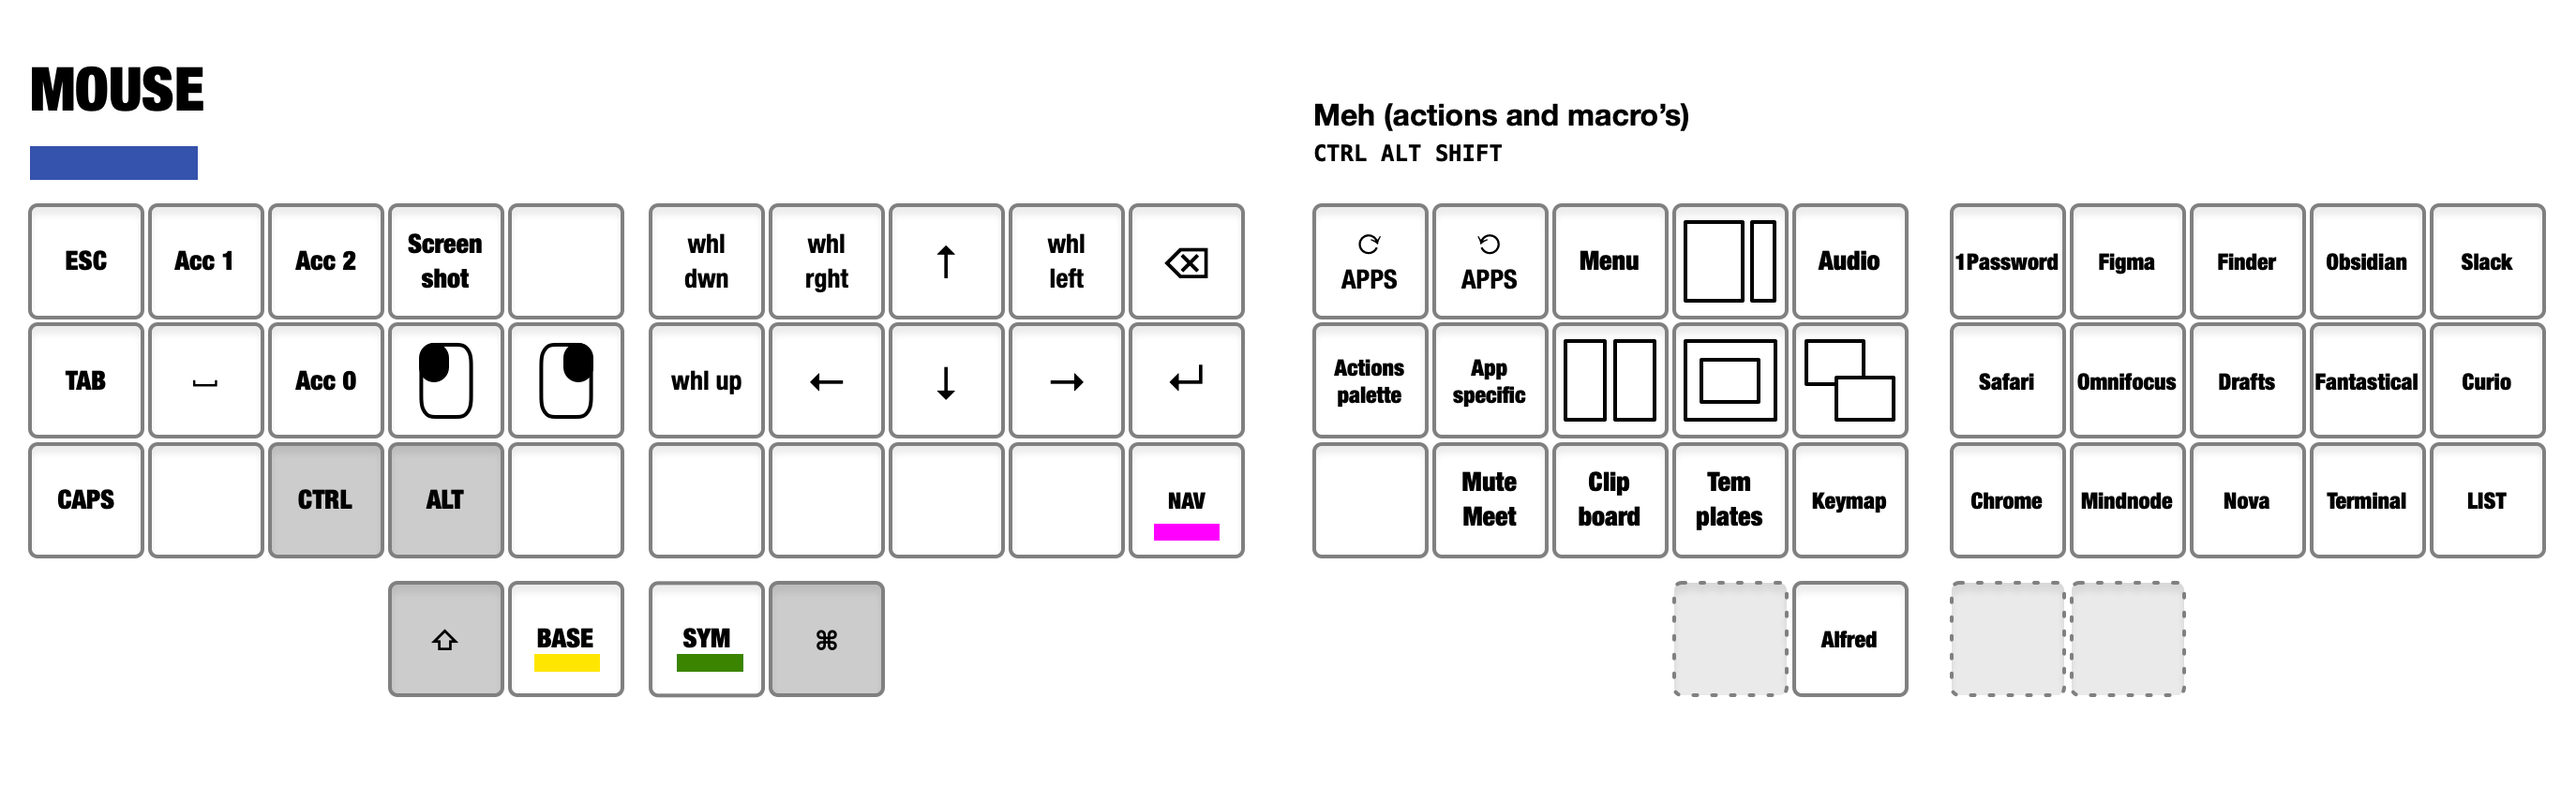
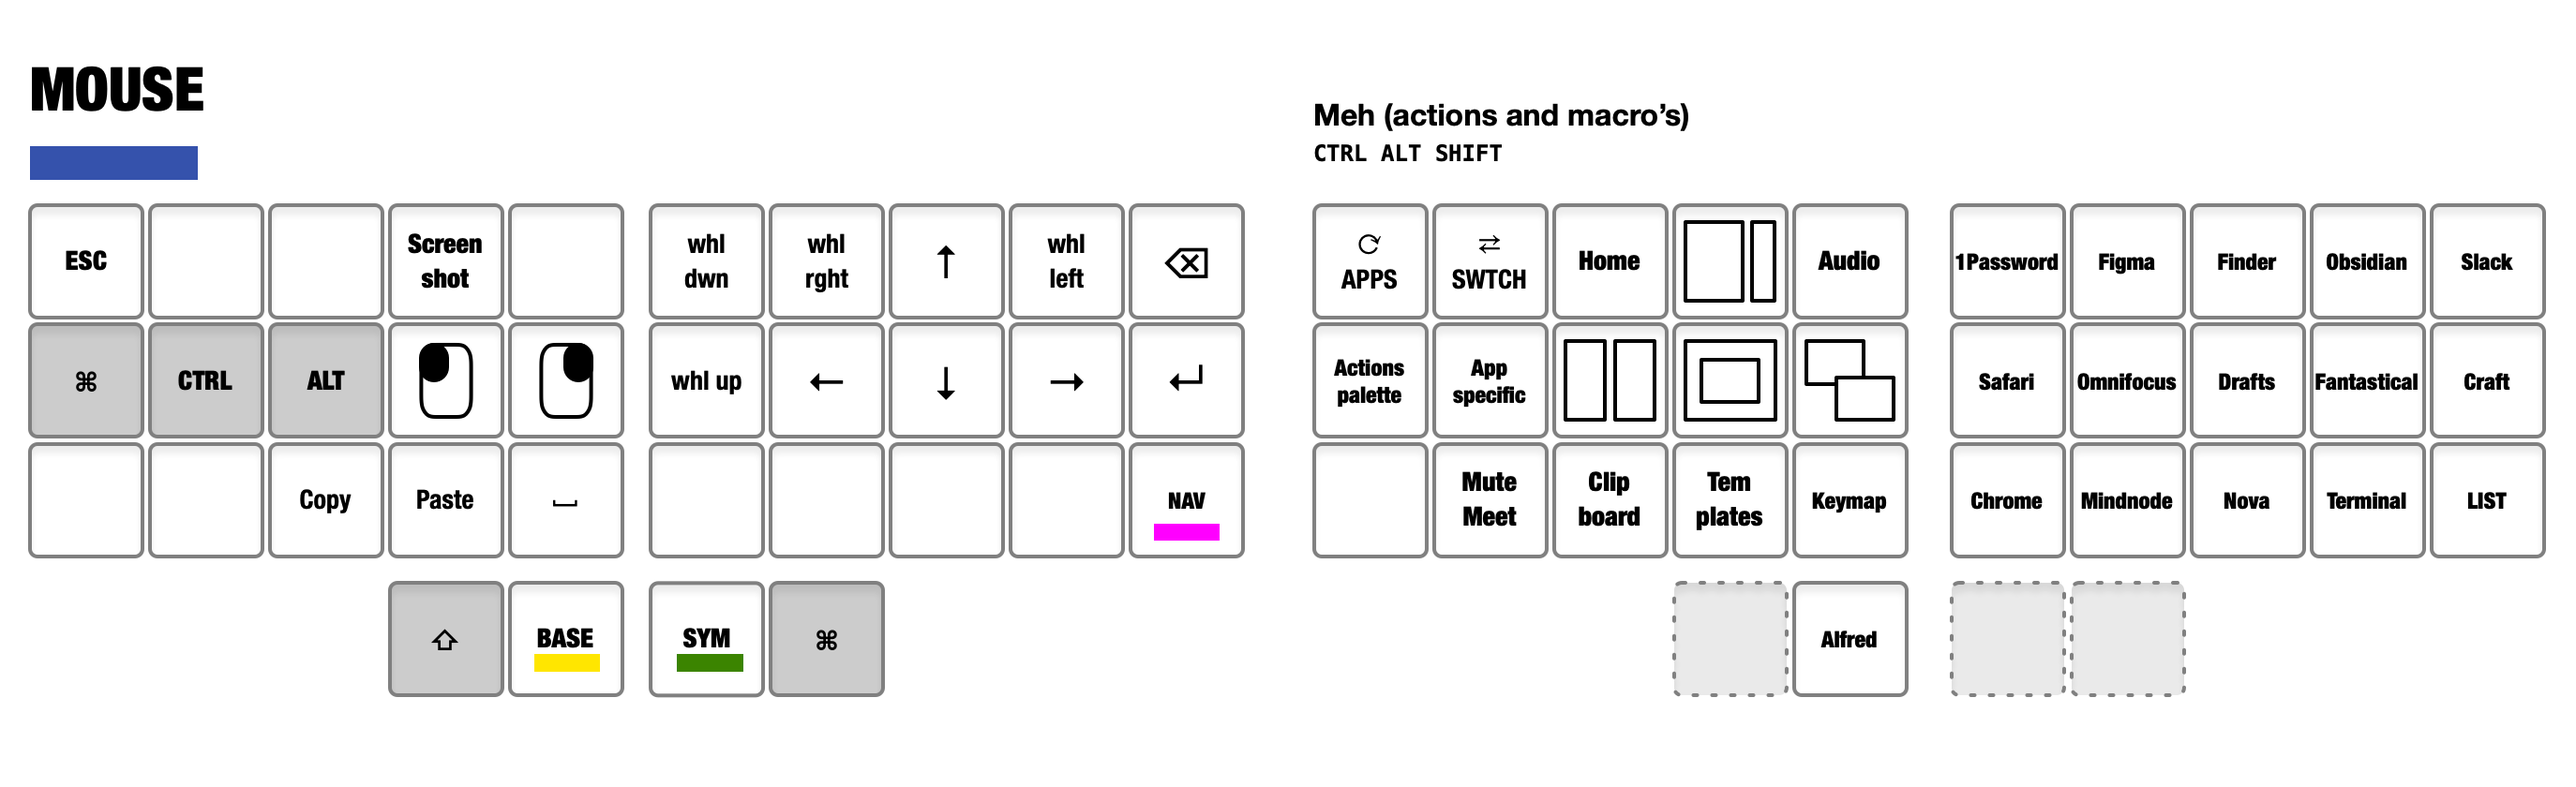
Updates from last weeks

diff --git a/moonlander/keymap.c b/moonlander/keymap.c
@@ -24,6 +24,10 @@
 #include "ledlights.c"
 #include "threefourbase.c"
 
+#define THUMB1 KC_MS_BTN1
+#define THUMB2 KC_MS_BTN2
+#define THUMB3 KC_NO
+
 const uint16_t PROGMEM keymaps[][MATRIX_ROWS][MATRIX_COLS] = {
 [0] = LAYOUT_moonlander(
         KR_0_1_0, KR_0_1_1,  KR_0_1_2,  KR_0_1_3,  KR_0_1_4,  KR_0_1_5,  _______,    _______,  KR_0_1_6,  KR_0_1_7,  KR_0_1_8,  KR_0_1_9,  KR_0_1_10,  KR_0_1_11,
@@ -31,7 +35,7 @@ const uint16_t PROGMEM keymaps[][MATRIX_ROWS][MATRIX_COLS] = {
         KR_0_3_0, KR_0_3_1,  KR_0_3_2,  KR_0_3_3,  KR_0_3_4,  KR_0_3_5,  _______,    _______,  KR_0_3_6,  KR_0_3_7,  KR_0_3_8,  KR_0_3_9,  KR_0_3_10,  KR_0_3_11,
         _______,   _______,   _______,   _______,  KR_0_4_2,  KR_0_4_3,                        KR_0_4_4,  KR_0_4_5,  _______,   _______,    _______,    _______,
         _______, _______,   _______,   _______,   _______,   _______,                      _______,   _______,   _______,   _______,   _______,    _______,
-                                                  _______, _______, MEH(KC_X),    _______, _______, _______
+                                                  THUMB1, THUMB2, THUMB3,     THUMB3, THUMB2, THUMB1
     ),
 
     [1] = LAYOUT_moonlander(
@@ -40,7 +44,7 @@ const uint16_t PROGMEM keymaps[][MATRIX_ROWS][MATRIX_COLS] = {
         _______, KR_1_3_1,  KR_1_3_2,  KR_1_3_3,  KR_1_3_4,  KR_1_3_5,  _______,    _______,  KR_1_3_6,  KR_1_3_7,  KR_1_3_8,  KR_1_3_9,  KR_1_3_10,  _______,
         _______, _______,   _______,   _______,  KR_1_4_2,  KR_1_4_3,                         KR_1_4_4,  KR_1_4_5,  _______,   _______,    _______,    _______,
         _______, _______,   _______,   _______,   _______,   _______,                         _______,   _______,   _______,   _______,   _______,    _______,
-                                                  _______, _______, _______,    _______, _______, _______
+                                                  KC_TRNS, KC_TRNS, KC_TRNS,    KC_TRNS, KC_TRNS, KC_TRNS
     ),
 
     [2] = LAYOUT_moonlander(
@@ -49,7 +53,7 @@ const uint16_t PROGMEM keymaps[][MATRIX_ROWS][MATRIX_COLS] = {
         _______, KR_2_3_1,  KR_2_3_2,  KR_2_3_3,  KR_2_3_4,  KR_2_3_5,  _______,    _______,  KR_2_3_6,  KR_2_3_7,  KR_2_3_8,  KR_2_3_9,  KR_2_3_10,  _______,
         _______, _______,   _______,   _______,  KR_2_4_2,  KR_2_4_3,                         KR_2_4_4,  KR_2_4_5,  _______,   _______,    _______,    _______,
         _______, _______,   _______,   _______,   _______,   _______,                         _______,   _______,   _______,   _______,   _______,    _______,
-                                                  _______, _______, _______,    _______, _______, _______
+                                                  KC_TRNS, KC_TRNS, KC_TRNS,    KC_TRNS, KC_TRNS, KC_TRNS
     ),
     
     [3] = LAYOUT_moonlander(
@@ -58,7 +62,7 @@ const uint16_t PROGMEM keymaps[][MATRIX_ROWS][MATRIX_COLS] = {
         _______, KR_3_3_1,  KR_3_3_2,  KR_3_3_3,  KR_3_3_4,  KR_3_3_5,  _______,    _______,  KR_3_3_6,  KR_3_3_7,  KR_3_3_8,  KR_3_3_9,  KR_3_3_10,  KR_3_3_11,
         _______, _______,   _______,   _______,  KR_3_4_2,  KR_3_4_3,                         KR_3_4_4,  KR_3_4_5,  _______,   _______,    _______,    _______,
         _______, _______,   _______,   _______,   _______,   _______,                         _______,   _______,   _______,   _______,   _______,    _______,
-                                                  _______, _______, _______,    _______, _______, _______
+                                                  KC_TRNS, KC_TRNS, KC_TRNS,    KC_TRNS, KC_TRNS, KC_TRNS
     ),
         
     [4] = LAYOUT_moonlander(
@@ -67,6 +71,6 @@ const uint16_t PROGMEM keymaps[][MATRIX_ROWS][MATRIX_COLS] = {
         _______, KR_4_3_1,  KR_4_3_2,  KR_4_3_3,  KR_4_3_4,  KR_4_3_5,  _______,    _______,  KR_4_3_6,  KR_4_3_7,  KR_4_3_8,  KR_4_3_9,  KR_4_3_10,  KR_4_3_11,
         _______, _______,   _______,   _______,  KR_4_4_2,  KR_4_4_3,                         KR_4_4_4,  KR_4_4_5,  _______,   _______,    _______,    _______,
         _______, _______,   _______,   _______,   _______,   _______,                         _______,   _______,   _______,   _______,   _______,    _______,
-                                                  _______, _______, _______,    _______, _______, _______
+                                                  KC_TRNS, KC_TRNS, KC_TRNS,    KC_TRNS, KC_TRNS, KC_TRNS
     )
 };

diff --git a/moonlander/threefourbase.c b/moonlander/threefourbase.c
@@ -8,7 +8,10 @@ enum combos {
 	QW_CBO,
 	ZX_CBO,
 	XC_CBO,
-	THUMBS_CBO,
+	DFG_CBO,
+	ASD_CBO,
+	MOUSE_CBO,
+	//THUMBS_CBO,
 	COMBO_LENGTH
 };
 
@@ -17,13 +20,19 @@ uint16_t COMBO_LEN = COMBO_LENGTH;
 const uint16_t PROGMEM qw_combo[]   = {KC_Q, KC_W, COMBO_END};
 const uint16_t PROGMEM zx_combo[]   = {KC_Z, KC_X, COMBO_END};
 const uint16_t PROGMEM xc_combo[]   = {KC_X, KC_C, COMBO_END};
-const uint16_t PROGMEM thumbs_combo[]   = {KC_SPACE, TT(1), COMBO_END};
+const uint16_t PROGMEM dfg_combo[]   = {LALT_T(KC_D), MEH_T(KC_F), KC_G, COMBO_END};
+const uint16_t PROGMEM asd_combo[]   = {KC_A, LCTL_T(KC_S), LALT_T(KC_D), COMBO_END};
+const uint16_t PROGMEM mouse_combo[]   = {KC_MS_BTN1, KC_MS_BTN2, COMBO_END};
+//const uint16_t PROGMEM thumbs_combo[]   = {KC_SPACE, TT(1), COMBO_END};
 
 combo_t key_combos[] = {
 	[QW_CBO] = COMBO(qw_combo, KC_ESC),
 	[ZX_CBO] = COMBO(zx_combo, KC_BSPC),
 	[XC_CBO] = COMBO(xc_combo, OSM(MOD_LGUI)),
-	[THUMBS_CBO] = COMBO(thumbs_combo, TO(3))
+	[DFG_CBO] = COMBO(dfg_combo, KC_ENTER),
+	[ASD_CBO] = COMBO(asd_combo, KC_TAB),
+	[MOUSE_CBO] = COMBO(mouse_combo, LSG(KC_4)), // Screenshot shortcut
+	//[THUMBS_CBO] = COMBO(thumbs_combo, TO(3))
 };
 
 // # Layer 0
@@ -54,7 +63,7 @@ combo_t key_combos[] = {
 #define KR_0_2_7 MEH_T(KC_J)
 #define KR_0_2_8 RALT_T(KC_K)
 #define KR_0_2_9 RCTL_T(KC_L)
-#define KR_0_2_10 KC_P
+#define KR_0_2_10 LSFT_T(KC_P)
 
 // Bottom row
 
@@ -225,15 +234,15 @@ combo_t key_combos[] = {
 
 #define KR_3_3_1 KC_CAPS
 #define KR_3_3_2 KC_NO
-#define KR_3_3_3 KC_NO
-#define KR_3_3_4 KC_NO
+#define KR_3_3_3 TO(4)
+#define KR_3_3_4 KC_NO // Hold down for temp nav layer. Leave on KC_NO
 #define KR_3_3_5 KC_SPACE
 
 #define KR_3_3_6 KC_NO
 #define KR_3_3_7 LSFT(KC_LEFT)
 #define KR_3_3_8 KC_TAB
 #define KR_3_3_9 LSFT(KC_RIGHT)
-#define KR_3_3_10 TO(4)
+#define KR_3_3_10 KC_NO
 
 // Thumb cluser
 
@@ -252,8 +261,8 @@ combo_t key_combos[] = {
 // Top row
 
 #define KR_4_1_1 KC_ESC
-#define KR_4_1_2 KC_MS_ACCEL1
-#define KR_4_1_3 KC_MS_ACCEL2
+#define KR_4_1_2 KC_NO
+#define KR_4_1_3 KC_NO
 #define KR_4_1_4 LSG(KC_4) // Screenshot button `cmd shift 4`
 #define KR_4_1_5 KC_NO
 //
@@ -264,9 +273,9 @@ combo_t key_combos[] = {
 #define KR_4_1_10 KC_BSPC
 
 
-#define KR_4_2_1 KC_TAB
-#define KR_4_2_2 KC_SPACE
-#define KR_4_2_3 KC_MS_ACCEL0
+#define KR_4_2_1 KC_LGUI
+#define KR_4_2_2 KC_LCTRL
+#define KR_4_2_3 KC_LALT
 #define KR_4_2_4 KC_MS_BTN1
 #define KR_4_2_5 KC_MS_BTN2
 //
@@ -277,15 +286,15 @@ combo_t key_combos[] = {
 #define KR_4_2_10 KC_ENTER
 
 
-#define KR_4_3_1 KC_CAPS
+#define KR_4_3_1 KC_NO
 #define KR_4_3_2 KC_NO
-#define KR_4_3_3 KC_LCTRL
-#define KR_4_3_4 KC_LALT
-#define KR_4_3_5 KC_NO
+#define KR_4_3_3 LGUI(KC_C)
+#define KR_4_3_4 LGUI(KC_V)
+#define KR_4_3_5 KC_SPACE
 
 #define KR_4_3_6 KC_NO
 #define KR_4_3_7 KC_NO
-#define KR_4_3_8 KC_NO
+#define KR_4_3_8 KC_TAB
 #define KR_4_3_9 KC_NO
 #define KR_4_3_10 TO(3)
 
@@ -298,8 +307,6 @@ combo_t key_combos[] = {
 #define KR_4_4_4 TO(1)
 #define KR_4_4_5 KC_TRNS
 #define KR_4_4_6 KC_TRNS
-
-
 
 
 

diff --git a/technik/threefourbase.c b/technik/threefourbase.c
@@ -8,7 +8,9 @@ enum combos {
 	QW_CBO,
 	ZX_CBO,
 	XC_CBO,
-	THUMBS_CBO,
+	DFG_CBO,
+	//THUMBS_CBO,
+	MOUSE_CBO,
 	COMBO_LENGTH
 };
 
@@ -17,13 +19,17 @@ uint16_t COMBO_LEN = COMBO_LENGTH;
 const uint16_t PROGMEM qw_combo[]   = {KC_Q, KC_W, COMBO_END};
 const uint16_t PROGMEM zx_combo[]   = {KC_Z, KC_X, COMBO_END};
 const uint16_t PROGMEM xc_combo[]   = {KC_X, KC_C, COMBO_END};
-const uint16_t PROGMEM thumbs_combo[]   = {KC_SPACE, TT(1), COMBO_END};
+const uint16_t PROGMEM dfg_combo[]   = {LALT_T(KC_D), MEH_T(KC_F), KC_G, COMBO_END};
+//const uint16_t PROGMEM thumbs_combo[]   = {KC_SPACE, TT(1), COMBO_END};
+const uint16_t PROGMEM mouse_combo[]   = {KC_MS_BTN1, KC_MS_BTN2, COMBO_END};
 
 combo_t key_combos[] = {
 	[QW_CBO] = COMBO(qw_combo, KC_ESC),
 	[ZX_CBO] = COMBO(zx_combo, KC_BSPC),
 	[XC_CBO] = COMBO(xc_combo, OSM(MOD_LGUI)),
-	[THUMBS_CBO] = COMBO(thumbs_combo, TO(3))
+	[DFG_CBO] = COMBO(dfg_combo, KC_ENTER),
+	[MOUSE_CBO] = COMBO(mouse_combo, LSG(KC_4)), // Screenshot shortcut
+	//[THUMBS_CBO] = COMBO(thumbs_combo, TO(3))
 };
 
 // # Layer 0
@@ -54,7 +60,7 @@ combo_t key_combos[] = {
 #define KR_0_2_7 MEH_T(KC_J)
 #define KR_0_2_8 RALT_T(KC_K)
 #define KR_0_2_9 RCTL_T(KC_L)
-#define KR_0_2_10 KC_P
+#define KR_0_2_10 LSFT_T(KC_P)
 
 // Bottom row
 
@@ -225,15 +231,15 @@ combo_t key_combos[] = {
 
 #define KR_3_3_1 KC_CAPS
 #define KR_3_3_2 KC_NO
-#define KR_3_3_3 KC_NO
-#define KR_3_3_4 KC_NO
+#define KR_3_3_3 TO(4)
+#define KR_3_3_4 KC_NO // Hold down for temp nav layer. Leave on KC_NO
 #define KR_3_3_5 KC_SPACE
 
 #define KR_3_3_6 KC_NO
 #define KR_3_3_7 LSFT(KC_LEFT)
 #define KR_3_3_8 KC_TAB
 #define KR_3_3_9 LSFT(KC_RIGHT)
-#define KR_3_3_10 TO(4)
+#define KR_3_3_10 KC_NO
 
 // Thumb cluser
 
@@ -252,8 +258,8 @@ combo_t key_combos[] = {
 // Top row
 
 #define KR_4_1_1 KC_ESC
-#define KR_4_1_2 KC_MS_ACCEL1
-#define KR_4_1_3 KC_MS_ACCEL2
+#define KR_4_1_2 KC_NO
+#define KR_4_1_3 KC_NO
 #define KR_4_1_4 LSG(KC_4) // Screenshot button `cmd shift 4`
 #define KR_4_1_5 KC_NO
 //
@@ -264,9 +270,9 @@ combo_t key_combos[] = {
 #define KR_4_1_10 KC_BSPC
 
 
-#define KR_4_2_1 KC_TAB
-#define KR_4_2_2 KC_SPACE
-#define KR_4_2_3 KC_MS_ACCEL0
+#define KR_4_2_1 KC_LGUI
+#define KR_4_2_2 KC_LCTRL
+#define KR_4_2_3 KC_LALT
 #define KR_4_2_4 KC_MS_BTN1
 #define KR_4_2_5 KC_MS_BTN2
 //
@@ -277,11 +283,11 @@ combo_t key_combos[] = {
 #define KR_4_2_10 KC_ENTER
 
 
-#define KR_4_3_1 KC_CAPS
+#define KR_4_3_1 KC_NO
 #define KR_4_3_2 KC_NO
-#define KR_4_3_3 KC_LCTRL
-#define KR_4_3_4 KC_LALT
-#define KR_4_3_5 KC_NO
+#define KR_4_3_3 LGUI(KC_C)
+#define KR_4_3_4 LGUI(KC_V)
+#define KR_4_3_5 KC_SPACE
 
 #define KR_4_3_6 KC_NO
 #define KR_4_3_7 KC_NO
@@ -298,8 +304,6 @@ combo_t key_combos[] = {
 #define KR_4_4_4 TO(1)
 #define KR_4_4_5 KC_TRNS
 #define KR_4_4_6 KC_TRNS
-
-
 
 
 

diff --git a/moonlander/config.h b/moonlander/config.h
@@ -35,6 +35,7 @@
 #define RGBLIGHT_LAYERS
 
 #define RGB_MATRIX_STARTUP_SPD 60
+#define RGBLIGHT_SLEEP
 
 #define MK_KINETIC_SPEED 
 #define MOUSEKEY_DELAY 8
